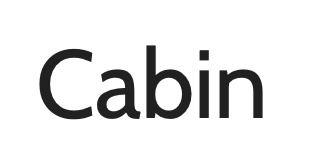
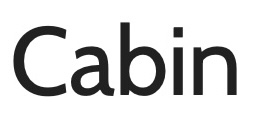
update 'about' article to match latest decisions

Changed region(s): [[0.0275, 0.175, 0.9333, 0.825], [0.6039, 0.225, 0.7412, 0.4]]

diff --git a/docs/about.md b/docs/about.md
@@ -10,9 +10,9 @@ The Phoenix Biorhythm site is hosted on GitHub Pages.
 
 Material for MkDocs directly integrates with [Google Fonts](https://fonts.google.com/){: target="_blank" }. All fonts are taken from that collection.
 
-Body text and titles are set in ![Cabin](images/cabin.jpg){: alt="cabin" style="vertical-align: middle; height: 40px;" }, a nonserif font. 
+Body text and titles are set in ![Cabin](images/cabin.jpg){: alt="cabin" style="vertical-align: bottom; height: 32px;" }, a nonserif font. 
 
-Code samples are set in ![Ubuntu Mono](images/ubuntu-mono.jpg){: alt="Ubuntu Mono" style="vertical-align: middle; height: 40px;" }, a nonserif, monospace font.
+Code samples are set in ![Ubuntu Mono](images/ubuntu-mono.jpg){: alt="Ubuntu Mono" style="vertical-align: bottom; height: 32px;" }, a nonserif, monospace font.
 
 For clients who do not have these fonts, the style sheets specify some standard alternatives.
 
@@ -20,65 +20,20 @@ See also "[Privacy](#privacy)".
 
 ## Palette
 
-Starting with the idea of a dark blue for the primary color and a brown for the secondary, the following sites were used to build the palette:
+The site provides both light and dark color schemes:
 
-* [ColorHexa.com](https://www.colorhexa.com){: target="_blank" }
-* [colordesigner.io](https://colordesigner.io){: target="_blank" }
+| Mode | Color Scheme |
+| ---- | ------------ |
+| Light | MkDocs default |
+| Dark | MkDocs slate |
 
-The result is a [tetradic color scheme](https://en.wikipedia.org/wiki/Color_scheme#Tetradic){: target="_blank" }, composed of [web safe colors](https://en.wikipedia.org/wiki/Web_colors#Web-safe_colors){: target="_blank" }.
+The primary color is set to <span style="color:#546d78; background-color: LightCyan; font-weight: bold;">blue-grey</span>.
 
-<p style="color: White; background-color:#003366; padding: 25px; width: 300px;">
-<strong>
-    Dark Midnight Blue
-    <br>
-</strong>
-Hex #003366
-<br>
-RGB 0, 51, 102
-<br>
-CMYK 100, 50, 0, 60
-</p>
-
-<p style="color: White; background-color:#663300; padding: 25px; width: 300px;">
-<strong>
-    very dark orange [brown tone]
-    <br>
-</strong>
-Hex #663300
-<br>
-RGB 102, 51, 0
-<br>
-CMYK 0, 50, 100, 60
-</p>
-
-<p style="color: White; background-color:#006633; padding: 25px; width: 300px;">
-<strong>
-    very dark cyan - lime green
-    <br>
-</strong>
-Hex #006633
-<br>
-RGB 0, 102, 51
-<br>
-CMYK 100, 0, 50, 60
-</p>
-
-<p style="color: White; background-color:#660033; padding: 25px; width: 300px;">
-<strong>
-    very dark pink
-    <br>
-</strong>
-Hex #660033
-<br>
-RGB 102, 0, 51
-<br>
-CMYK 0, 100, 50, 60
-</p>
+The accent color is set to <span style="color:#4051b5; background-color: LightCyan; font-weight: bold;">indigo</span>.
 
 ## Graphics
 
-![Phoenix Logo](images/phoenix-logo.jpg){: #phoenix-logo style="width: 68; height:80;" }
-
+![Phoenix Logo](images/phoenix-logo.png){: #phoenix-logo style="display:run-in; width:68px; height:80px;"}
 The Phoenix Project logo symbolizes the investigation of variation
 in blood pressure. It is a composite of three images:
 
@@ -88,14 +43,15 @@ in blood pressure. It is a composite of three images:
 
 The tracings are drawn along two different timescales
 
-The heart-image is Microsoft clip-art.
+The heart-image was taken from Microsoft's Clip Art, a now-retired service.
 The abstract tracings were drawn, and the entire logo composed,
 by the [Halberg Chronobiology Center](https://halbergchronobiologycenter.umn.edu){: target="_blank" }.
 
-<img alt="Colophon" src="../images/colophon-2.png" width="80" height="80">
-{: #colophon-icon }
+![Colophon](images/colophon-2.png){: #colophon-icon style="width:80px; height:80px; padding="100px"}
+The Colophon icon is a colorized version of "Wax Seal Ampersand" by Rebecca Sicilia from [Noun Project](https://thenounproject.com/browse/icons/term/wax-seal-ampersand/){: target="_blank" title="Wax Seal Ampersand Icons"} (CC BY 3.0).
 
-The Colophon icon is a colorized version of Wax Seal Ampersand by Rebecca Sicilia from <a href="https://thenounproject.com/browse/icons/term/wax-seal-ampersand/" target="_blank" title="Wax Seal Ampersand Icons">Noun Project</a> (CC BY 3.0).
+![favicon](images/circadian-rhythms.png){: #favicon style="width:88px; height:80px;"}
+The favicon is "circadian rhythms" by bsd studio from [Noun Project](https://thenounproject.com/browse/icons/term/circadian-rhythms/){: target="_blank" title="Circadian Rhythms"} (CC BY 3.0).
 
 ## Privacy
 
@@ -111,8 +67,10 @@ The site uses the [privacy plugin built into Material for MkDocs](https://squidf
 !!! bug "DRAFT ONLY"
     License selection not finalized. The options being considered are:
 
-    * CCO 1.0
-    * CC BY 4.0
+    * <a property="dct:title" rel="cc:attributionURL" href="https://cadams4341.github.io/phoenix-biorhythm-platform/">Phoenix Biorhythm Platform</a> by <span property="cc:attributionName">Christopher Adams</span> is marked with <a href="http://creativecommons.org/publicdomain/zero/1.0?ref=chooser-v1" target="_blank" rel="license noopener noreferrer" style="display:inline-block;">CC0 1.0 Universal<img style="height:22px!important;margin-left:3px;vertical-align:text-bottom;" src="https://mirrors.creativecommons.org/presskit/icons/cc.svg?ref=chooser-v1"><img style="height:22px!important;margin-left:3px;vertical-align:text-bottom;" src="https://mirrors.creativecommons.org/presskit/icons/zero.svg?ref=chooser-v1"></a>
+    * <a href="http://creativecommons.org/licenses/by/4.0/?ref=chooser-v1" target="_blank" rel="license noopener noreferrer" style="display:inline-block;">CC BY 4.0 (Attribution 4.0 International)<img style="height:22px!important;margin-left:3px;vertical-align:text-bottom;" src="https://mirrors.creativecommons.org/presskit/icons/cc.svg?ref=chooser-v1"><img style="height:22px!important;margin-left:3px;vertical-align:text-bottom;" src="https://mirrors.creativecommons.org/presskit/icons/by.svg?ref=chooser-v1"></a>
+
+    The latter is kept as a placeholder because it is the more restrictive of the two.
 
 <p xmlns:cc="http://creativecommons.org/ns#" xmlns:dct="http://purl.org/dc/terms/"><a property="dct:title" rel="cc:attributionURL" href="https://cadam4341.github.io/phoenix-biorhythm-platform">Phoenix Biorhythm Platform</a> by <span property="cc:attributionName">Christopher Adams</span> is licensed under <a href="http://creativecommons.org/licenses/by/4.0/?ref=chooser-v1" target="_blank" rel="license noopener noreferrer" style="display:inline-block;">Attribution 4.0 International<img style="height:22px!important;margin-left:3px;vertical-align:text-bottom;" src="https://mirrors.creativecommons.org/presskit/icons/cc.svg?ref=chooser-v1"><img style="height:22px!important;margin-left:3px;vertical-align:text-bottom;" src="https://mirrors.creativecommons.org/presskit/icons/by.svg?ref=chooser-v1"></a></p>
 

diff --git a/notes/palette.md b/notes/palette.md
@@ -1,0 +1,56 @@
+# Palette
+
+Starting with the idea of a dark blue for the primary color and a brown for the secondary, the following sites were used to build the palette:
+
+* [ColorHexa.com](https://www.colorhexa.com){: target="_blank" }
+* [colordesigner.io](https://colordesigner.io){: target="_blank" }
+
+The result is a [tetradic color scheme](https://en.wikipedia.org/wiki/Color_scheme#Tetradic){: target="_blank" }, composed of [web safe colors](https://en.wikipedia.org/wiki/Web_colors#Web-safe_colors){: target="_blank" }.
+
+<p style="color: White; background-color:#003366; padding: 25px; width: 300px;">
+<strong>
+    Dark Midnight Blue
+    <br>
+</strong>
+Hex #003366
+<br>
+RGB 0, 51, 102
+<br>
+CMYK 100, 50, 0, 60
+</p>
+
+<p style="color: White; background-color:#663300; padding: 25px; width: 300px;">
+<strong>
+    very dark orange [brown tone]
+    <br>
+</strong>
+Hex #663300
+<br>
+RGB 102, 51, 0
+<br>
+CMYK 0, 50, 100, 60
+</p>
+
+<p style="color: White; background-color:#006633; padding: 25px; width: 300px;">
+<strong>
+    very dark cyan - lime green
+    <br>
+</strong>
+Hex #006633
+<br>
+RGB 0, 102, 51
+<br>
+CMYK 100, 0, 50, 60
+</p>
+
+<p style="color: White; background-color:#660033; padding: 25px; width: 300px;">
+<strong>
+    very dark pink
+    <br>
+</strong>
+Hex #660033
+<br>
+RGB 102, 0, 51
+<br>
+CMYK 0, 100, 50, 60
+</p>
